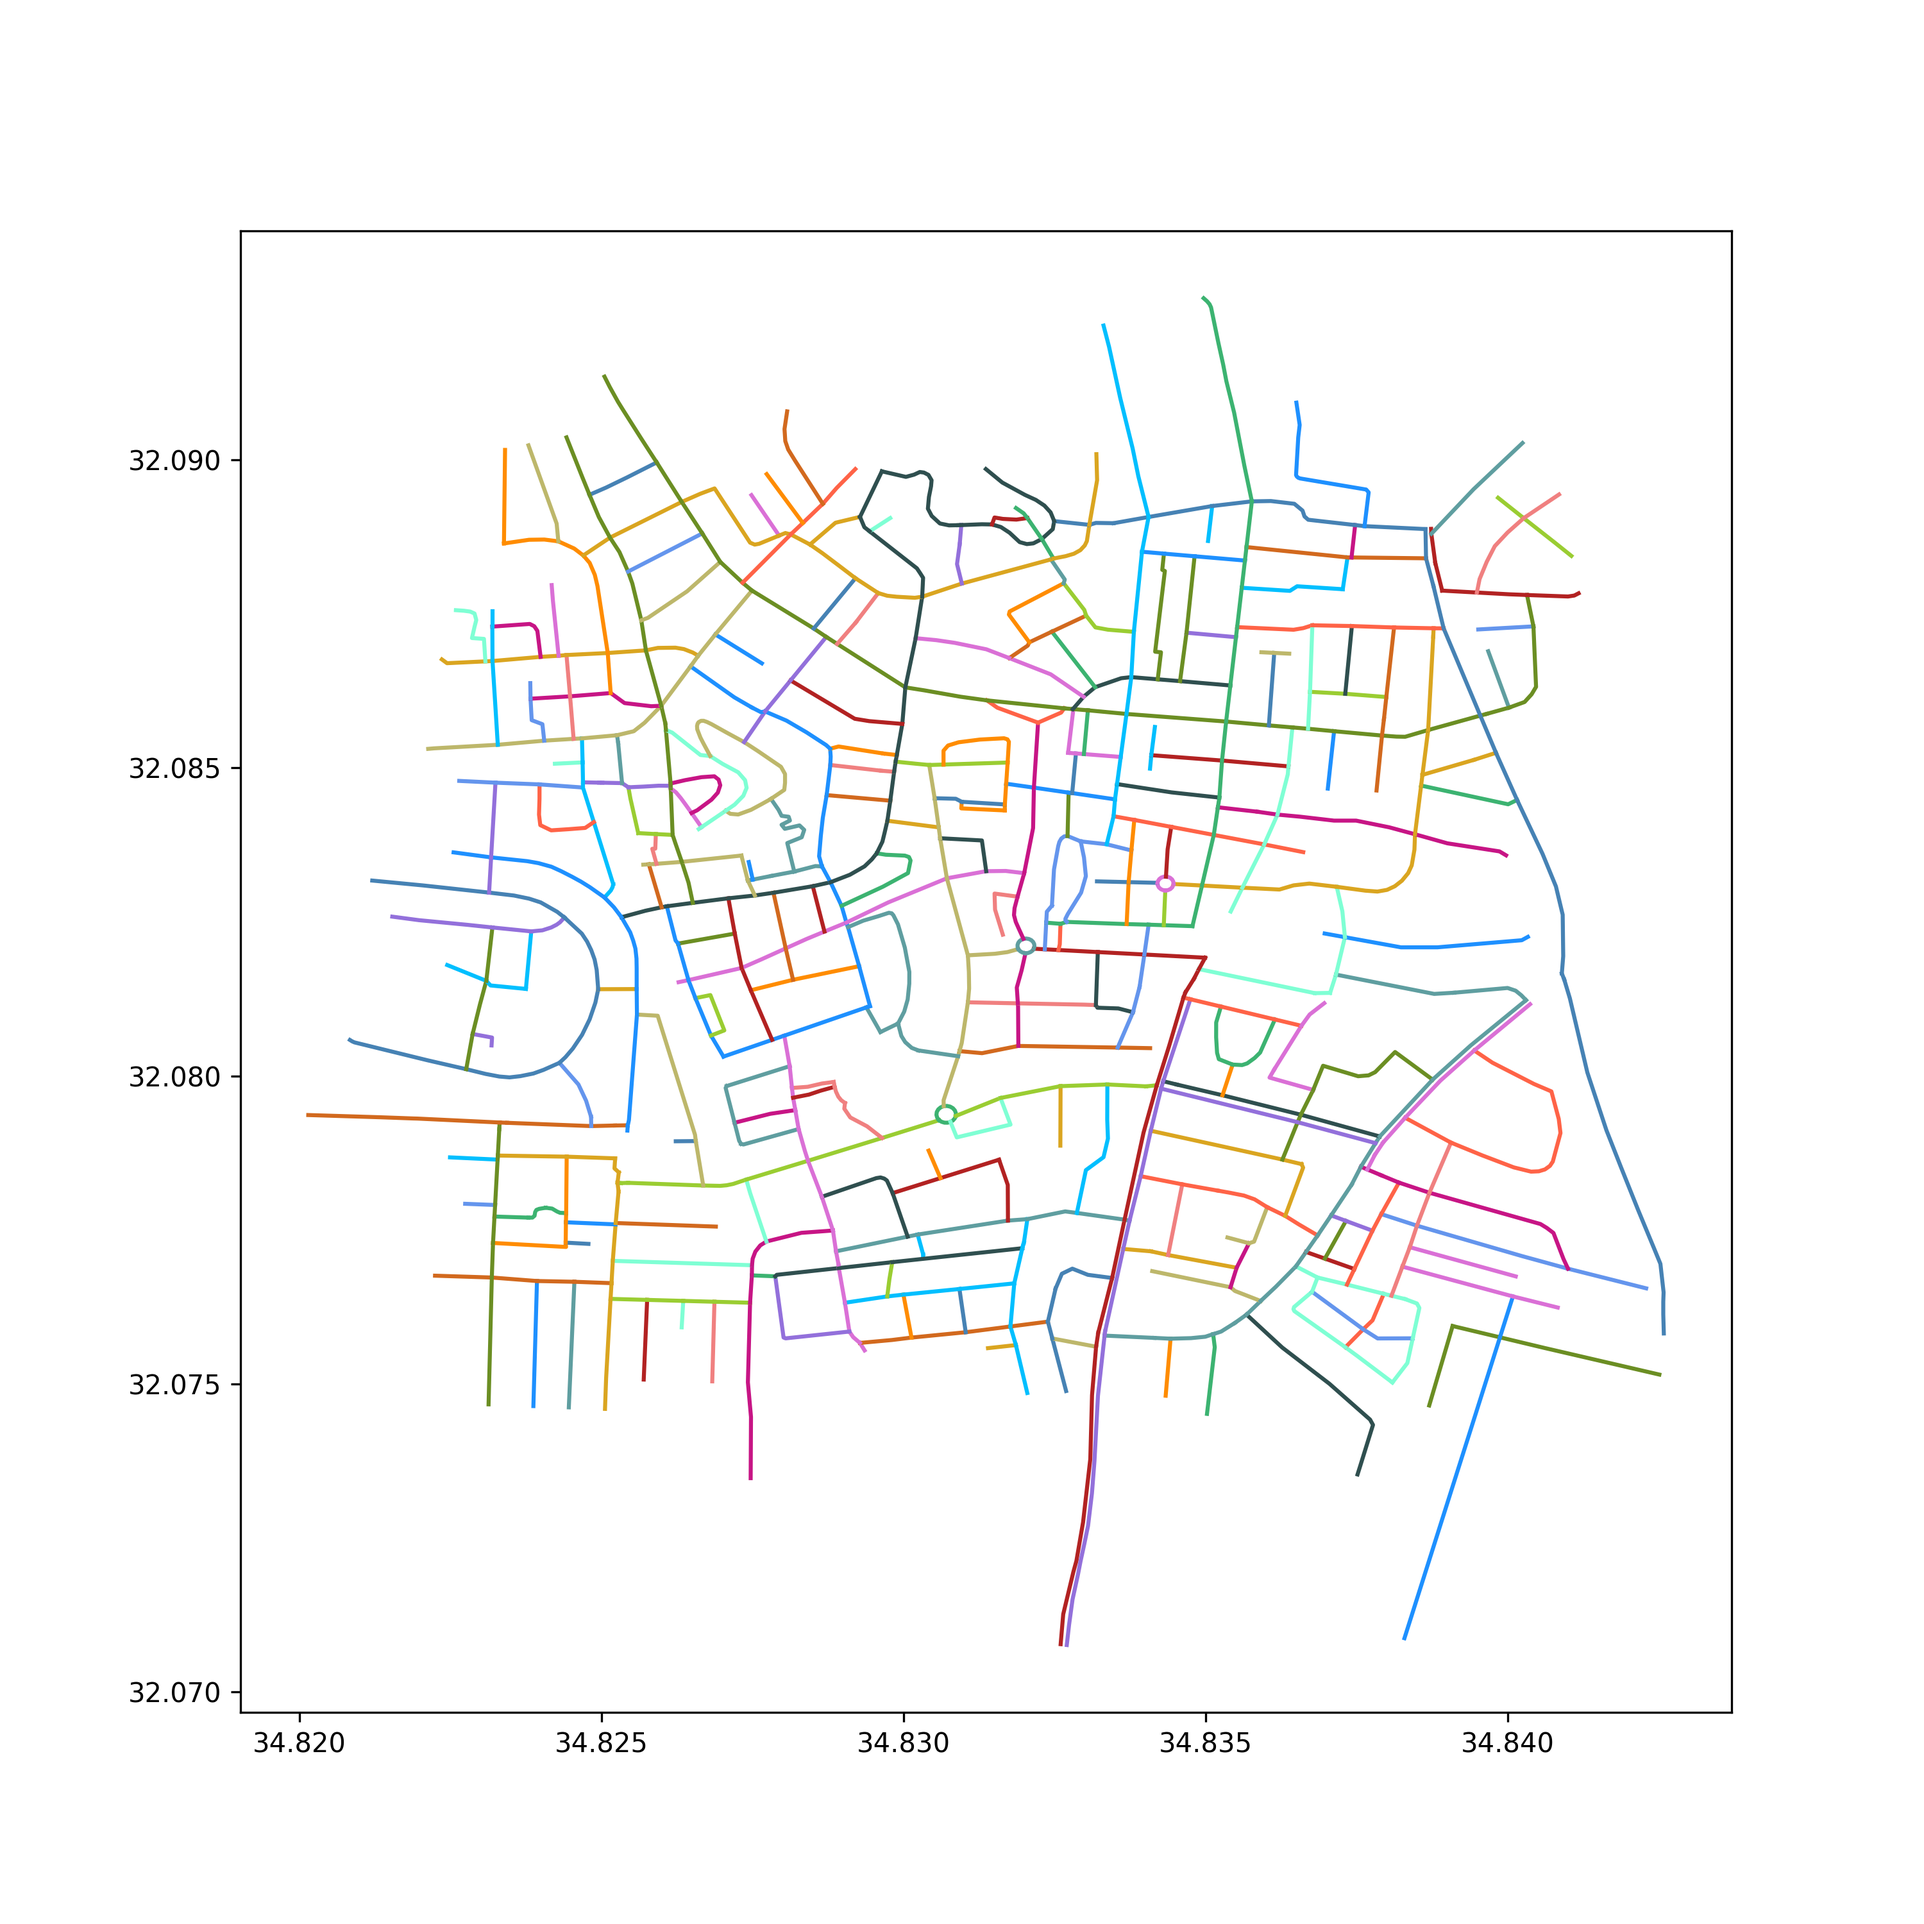
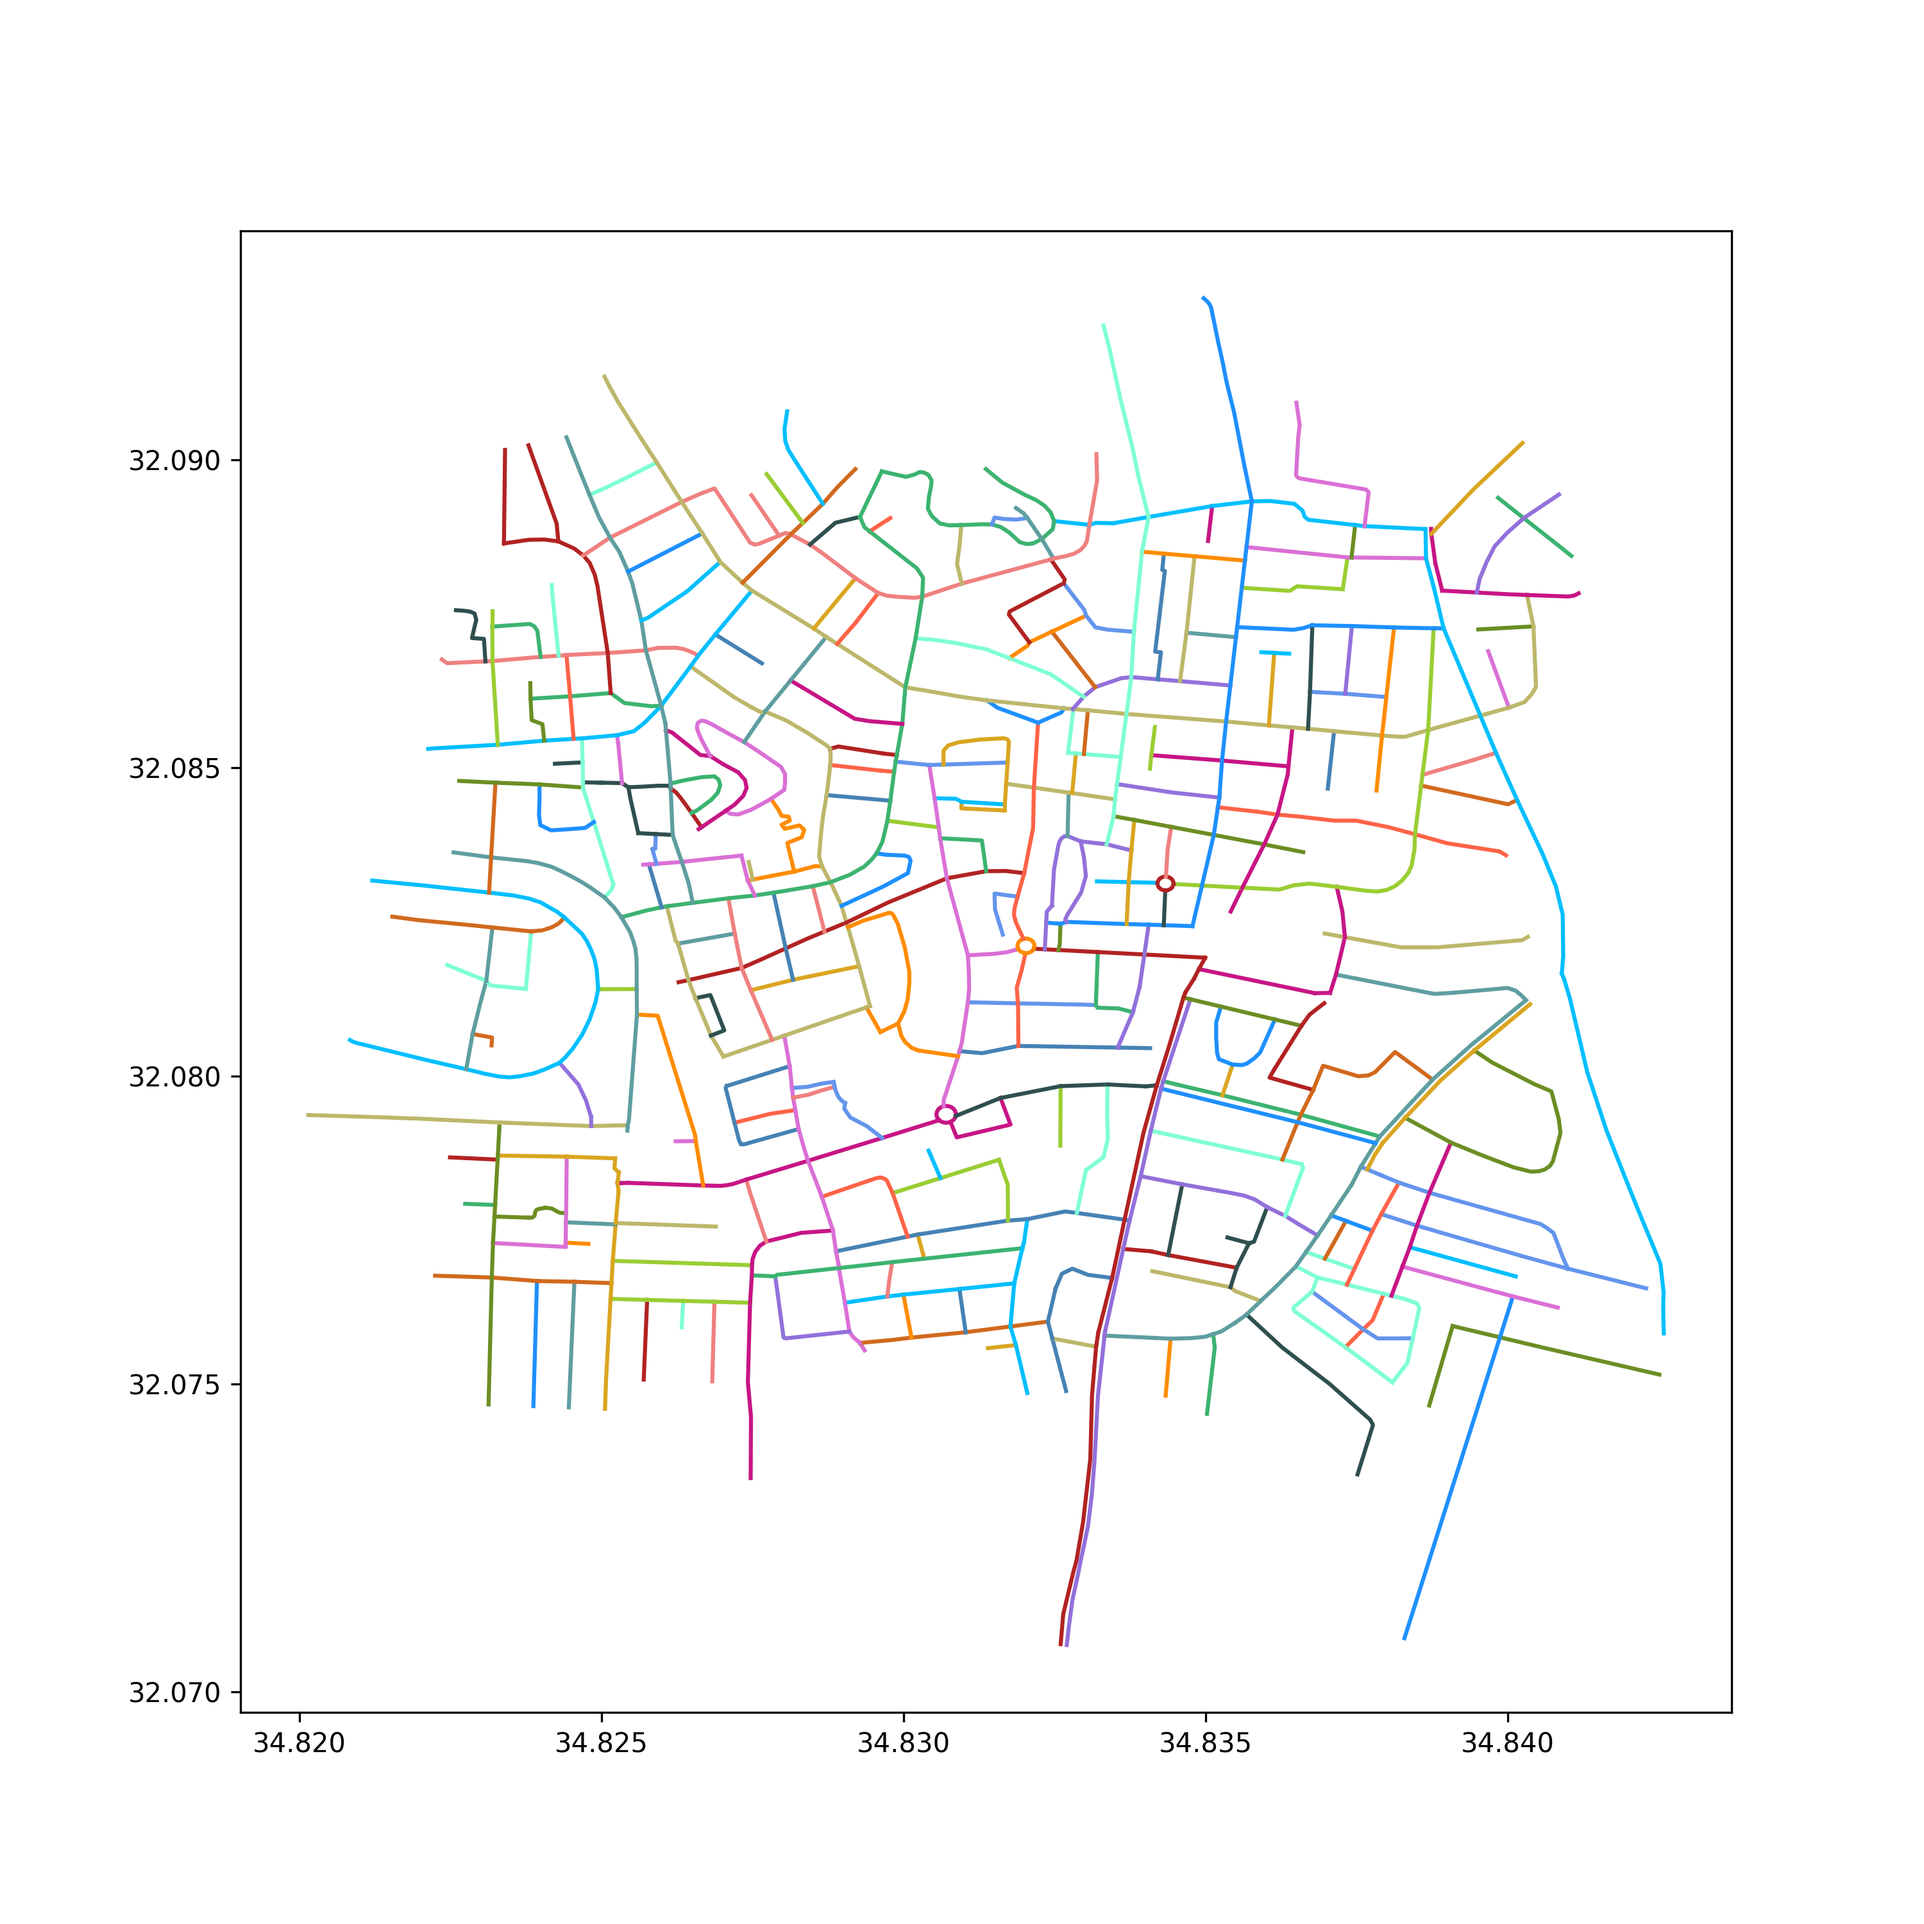
Minor: Style update, requirements update

diff --git a/main.py b/main.py
@@ -1,20 +1,20 @@
 import math
 import geopandas as gpd
 import matplotlib.pyplot as plt
-from styles import COLORS, STYLES
+from random import choice
 from itertools import cycle
+from styles import COLORS, STYLES
 from shapely.geometry import Point, LineString
 
 OUTPUT_SIZE = 3000
 OUTPUT_RES = 300
-MAX_ANGLE = 45
+MAX_ANGLE = 50
 
 INPUT_PATH = 'sample/roads.shp'
 OUTPUT_PATH = 'output/solution_varied.png'
 VARIED_STYLES = True
 
 color_iter = cycle(COLORS)
-style_iter = cycle(STYLES)
 
 def read_shp(file_path):
     return gpd.read_file(file_path)
@@ -34,7 +34,7 @@ def plot(geodataframe):
 
 def pick_new_style():
     if VARIED_STYLES:
-        return (next(color_iter), next(style_iter))
+        return (next(color_iter), choice(STYLES))
     return (next(color_iter), (None, None))
 
 def angle_between(v1, v2):
@@ -75,7 +75,6 @@ def dfs_color(row, geodataframe, current_style):
     if end_neighbor is not None:
         dfs_color(end_neighbor, geodataframe, current_style)
         
-
 def identify_street_continuation(segment, neighbors):
     if neighbors.empty:
         return None
@@ -93,10 +92,10 @@ def identify_street_continuation(segment, neighbors):
     for _, neighbor in neighbors.iterrows():
         if Point(neighbor.geometry.coords[0]).intersects(segment):
             neighbor_vector = (neighbor.geometry.coords[1][0]  - neighbor.geometry.coords[0][0], 
-                            neighbor.geometry.coords[1][1]  - neighbor.geometry.coords[0][1])
+                               neighbor.geometry.coords[1][1]  - neighbor.geometry.coords[0][1])
         else:
             neighbor_vector = (neighbor.geometry.coords[-1][0] - neighbor.geometry.coords[-2][0], 
-                            neighbor.geometry.coords[-1][1] - neighbor.geometry.coords[-2][1])
+                               neighbor.geometry.coords[-1][1] - neighbor.geometry.coords[-2][1])
 
         angle = angle_between(target_vector, neighbor_vector)
 
